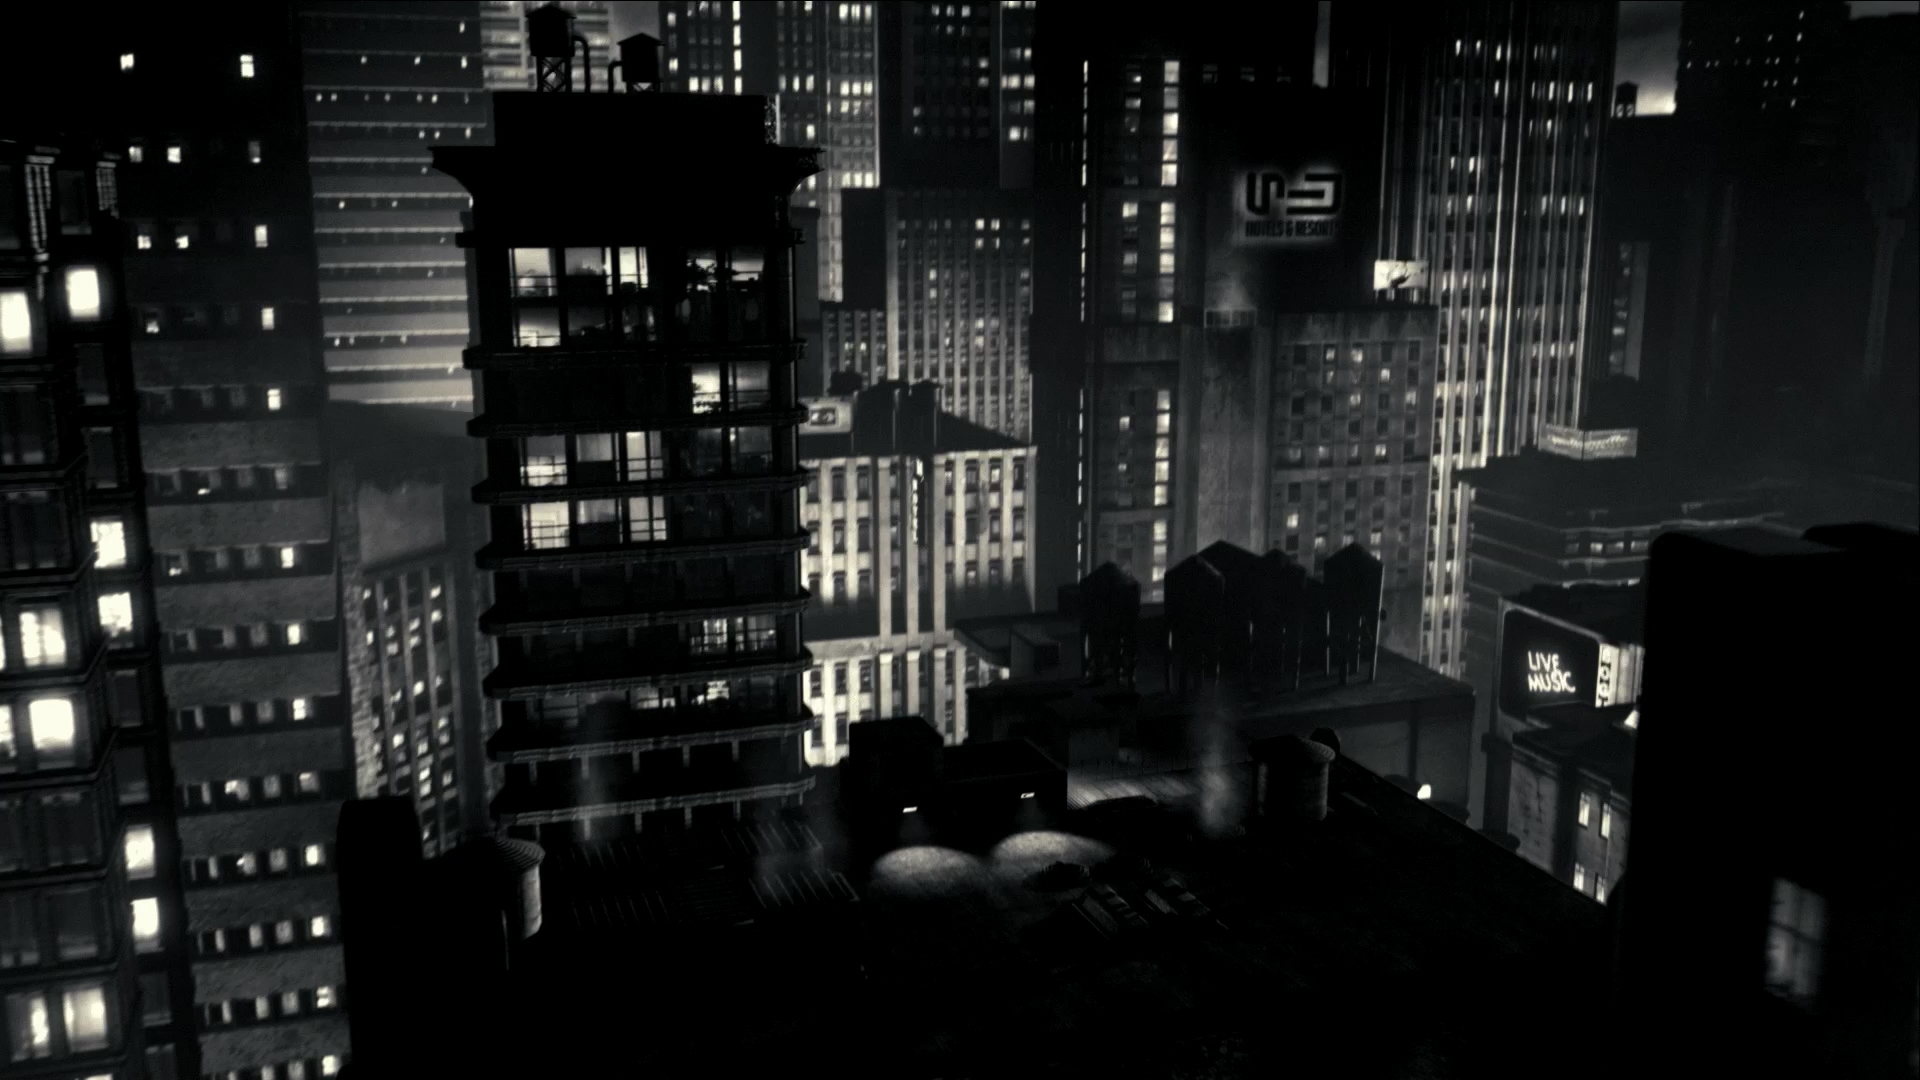
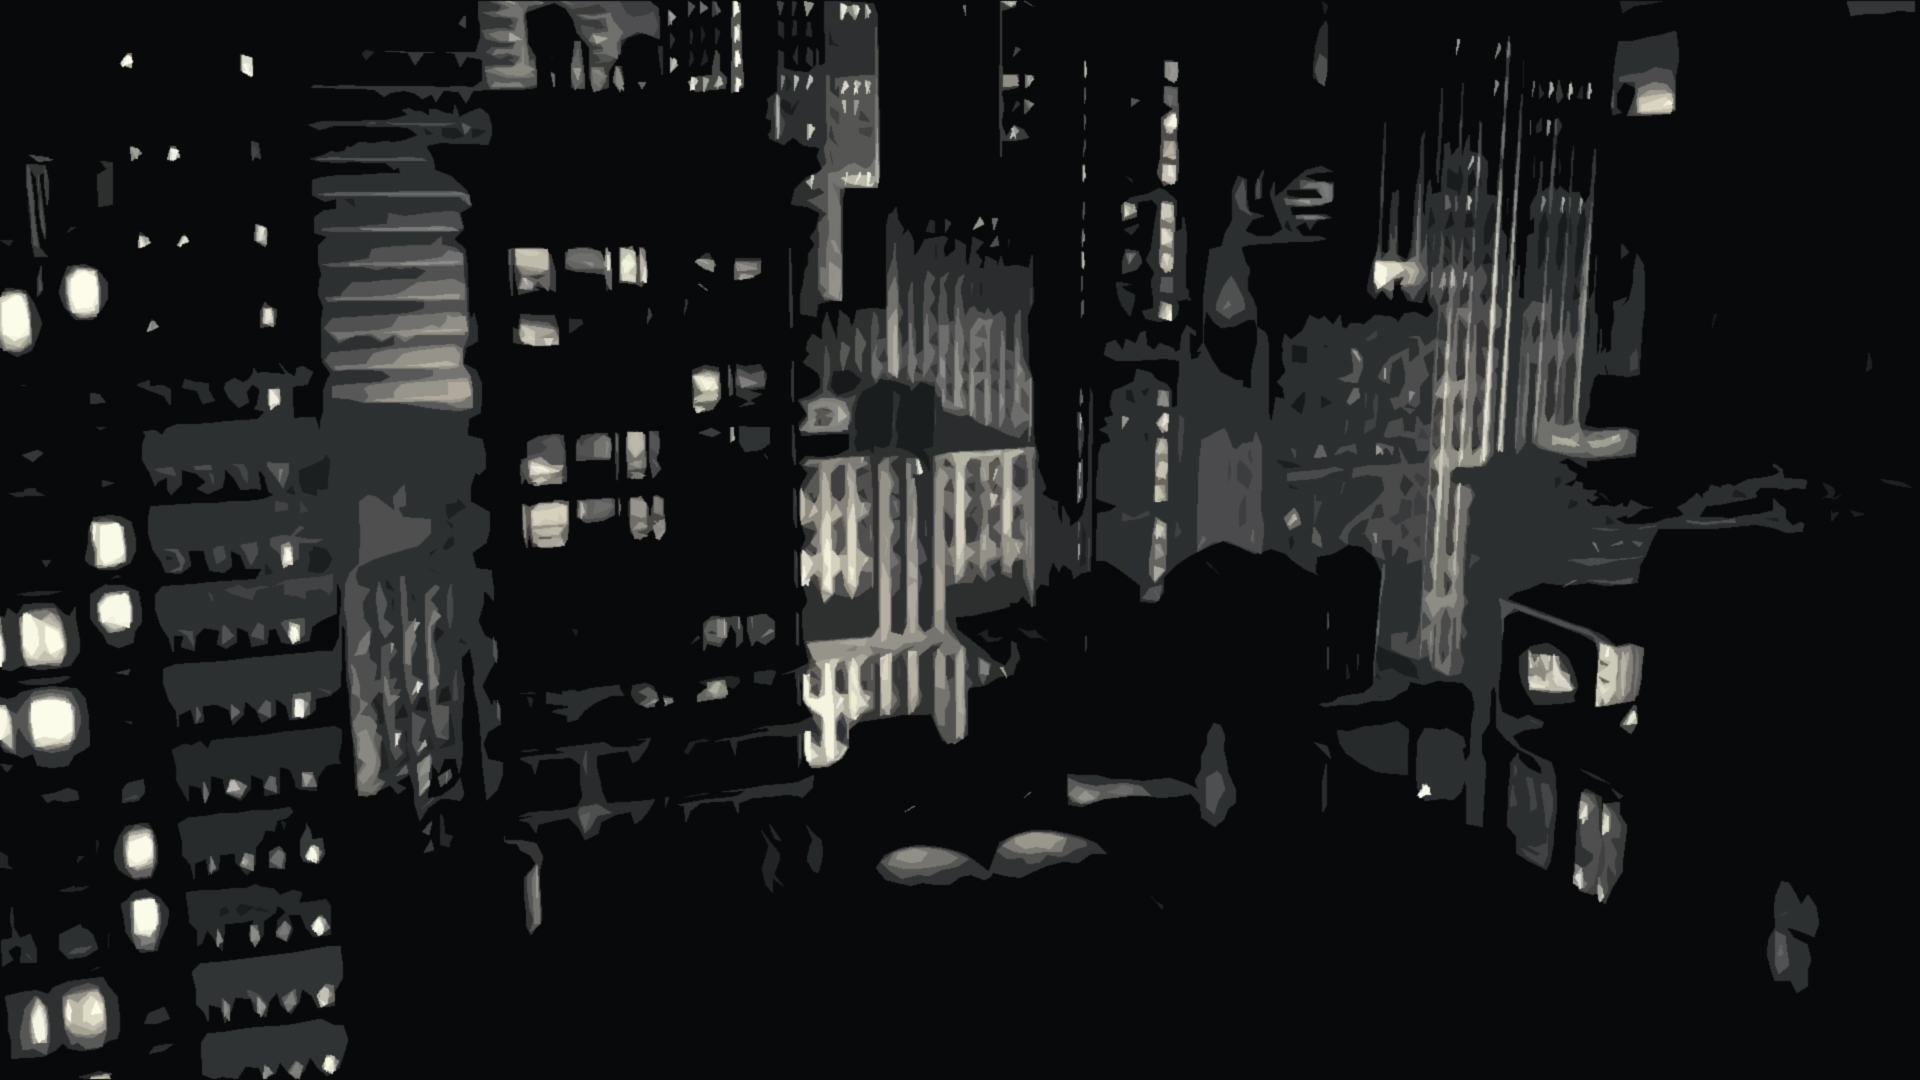
Pierwsza
Dodałem pierwszy widok na stronie, mam nadzieję, że się podoba, bo kurwa robiłem to dwie godziny. No. Tyle nazw superbohaterów...

diff --git a/style.css b/style.css
@@ -85,11 +85,20 @@ background:#0282f9;
 
 
 .start{
-  height:100vh;
+  height:800px;
   width:100%;
   background-image: url(basin_city.jpg);
   background-size: cover;
+  background-attachment: fixed;
+  margin:0px;
+  padding:0px;
+  overflow: hidden;
 
+}
+.overlay{
+  height:800px;
+  width:auto;
+  overflow: hidden;
 }
 .idea{
   text-align:center;
@@ -846,4 +855,7 @@ button:focus{
 }
 .icon-youtube-play:hover{
   color:#e52d27;
+}
+.container-fluid{
+  padding:0px;
 }

diff --git a/index.html b/index.html
@@ -64,7 +64,7 @@
             </nav>
         </div>
   <div class="start col-lg-12">
-
+    <img src="overlay.png"class="overlay" alt="">
   </div>
 
   <!--<div class="row idea">
